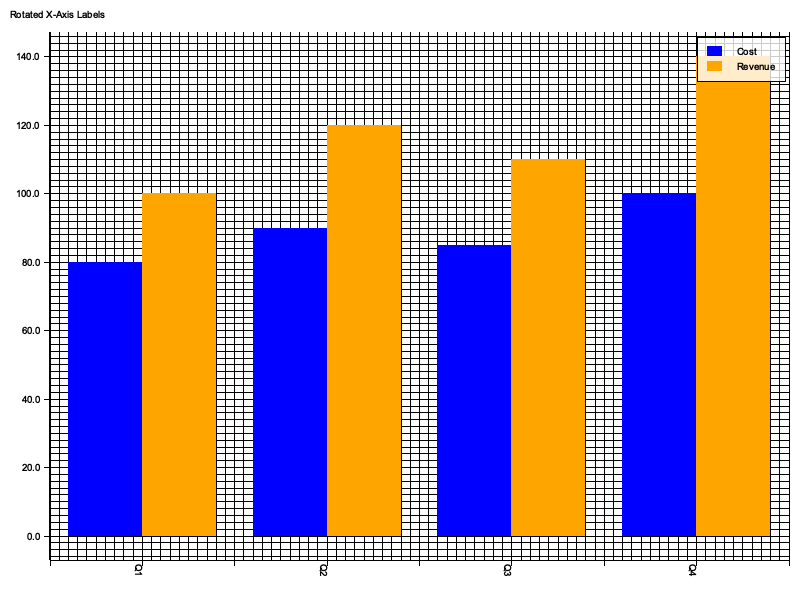
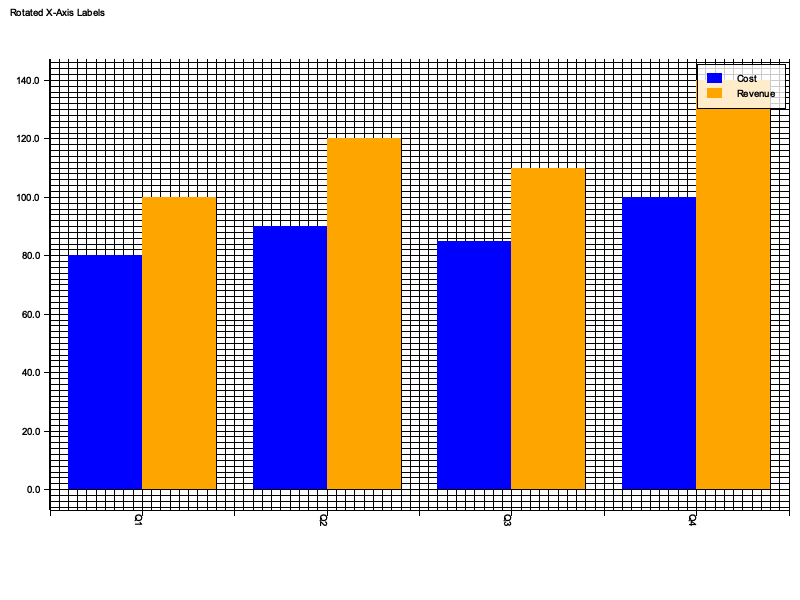
fix legend, subtitle/caption rendering, and axis label clipping

Changed region(s): [[0.0, 0.06, 1.0, 0.96], [0.9688, 0.57, 1.0, 0.69], [0.0, 0.0, 0.125, 0.03]]

diff --git a/src/graph.rs b/src/graph.rs
@@ -152,6 +152,68 @@ impl Canvas {
         // Fill background with resolved theme color
         root.fill(&resolved_theme.plot_background.fill).context("Failed to fill background")?;
 
+        // Calculate header height for title + subtitle
+        let title_size = resolved_theme.plot_title.size;
+        let has_title = scene.labels.title.is_some();
+        let has_subtitle = scene.labels.subtitle.is_some();
+        let has_caption = scene.labels.caption.is_some();
+
+        let header_height: u32 = if has_title || has_subtitle {
+            let mut h = 5u32; // top padding
+            if has_title {
+                h += title_size as u32 + 5;
+            }
+            if has_subtitle {
+                h += (title_size * 0.7) as u32 + 5;
+            }
+            h + 5 // bottom padding
+        } else {
+            0
+        };
+
+        let caption_height: u32 = if has_caption { 30 } else { 0 };
+
+        // Split root into header, main, footer
+        let total_height = scene.height;
+        let main_height = total_height.saturating_sub(header_height).saturating_sub(caption_height);
+
+        let (header_area, rest) = root.split_vertically(header_height);
+        let (main_area, footer_area) = rest.split_vertically(main_height);
+
+        // Draw title and subtitle in header area
+        if has_title || has_subtitle {
+            let mut y_offset = 8i32;
+
+            if let Some(title) = &scene.labels.title {
+                let title_style = TextStyle::from((
+                    resolved_theme.plot_title.family.as_str(),
+                    resolved_theme.plot_title.size as i32
+                ).into_font()).color(&resolved_theme.plot_title.color);
+                header_area.draw_text(title, &title_style, (10, y_offset))?;
+                y_offset += title_size as i32 + 4;
+            }
+
+            if let Some(subtitle) = &scene.labels.subtitle {
+                let subtitle_size = (title_size * 0.7).max(10.0);
+                let subtitle_style = TextStyle::from((
+                    resolved_theme.plot_title.family.as_str(),
+                    subtitle_size as i32
+                ).into_font()).color(&resolved_theme.axis_text.color);
+                header_area.draw_text(subtitle, &subtitle_style, (10, y_offset))?;
+            }
+        }
+
+        // Draw caption in footer area (right-aligned, muted)
+        if let Some(caption) = &scene.labels.caption {
+            let caption_style = TextStyle::from((
+                "sans-serif",
+                11i32
+            ).into_font()).color(&resolved_theme.axis_text.color)
+                .pos(Pos::new(HPos::Right, VPos::Center));
+            let (w, _h) = footer_area.dim_in_pixel();
+            footer_area.draw_text(caption, &caption_style, ((w as i32) - 15, 10))?;
+        }
+
         // Determine Grid Layout
         let max_row = scene.panels.iter().map(|p| p.row).max().unwrap_or(0);
         let max_col = scene.panels.iter().map(|p| p.col).max().unwrap_or(0);
@@ -159,16 +221,7 @@ impl Canvas {
         let rows = max_row + 1;
         let cols = max_col + 1;
 
-        let areas = root.split_evenly((rows, cols));
-
-        // Draw Global Title using resolved theme
-        if let Some(title) = &scene.labels.title {
-            let title_style = TextStyle::from((
-                resolved_theme.plot_title.family.as_str(),
-                resolved_theme.plot_title.size as i32
-            ).into_font()).color(&resolved_theme.plot_title.color);
-            root.draw_text(title, &title_style, (10, 10))?;
-        }
+        let areas = main_area.split_evenly((rows, cols));
 
         for panel in &scene.panels {
             let area_idx = panel.row * cols + panel.col;
@@ -192,12 +245,26 @@ impl Canvas {
         let x_range = panel.x_scale.range.0..panel.x_scale.range.1;
         let y_range = panel.y_scale.range.0..panel.y_scale.range.1;
 
+        // Dynamically calculate x label area size based on axis text angle
+        let x_label_area_size = if theme.has_customization {
+            let angle = theme.axis_text.angle;
+            let normalized = ((angle % 360.0) + 360.0) % 360.0;
+            if (45.0..135.0).contains(&normalized) || (225.0..315.0).contains(&normalized) {
+                // Rotated: need more vertical space for labels
+                (theme.axis_text.size * 6.0).max(80.0) as u32
+            } else {
+                30
+            }
+        } else {
+            30
+        };
+
         let mut chart_builder = ChartBuilder::on(area);
 
         chart_builder
             .margin(10)
             .caption(panel.title.clone().unwrap_or_default(), ("sans-serif", 15))
-            .x_label_area_size(30)
+            .x_label_area_size(x_label_area_size)
             .y_label_area_size(40);
 
         let mut chart = chart_builder
@@ -397,12 +464,20 @@ impl Canvas {
             }
         }
         
-        // Draw Legend if any items (respecting theme legend_position)
-        // Note: Plotters draws legend only if series were labeled
+        // Draw Legend only if there are actually labeled series
         use crate::parser::ast::LegendPosition;
         use plotters::chart::SeriesLabelPosition;
 
-        if theme.legend_position != LegendPosition::None {
+        let has_legend_entries = panel.commands.iter().any(|cmd| {
+            match cmd {
+                DrawCommand::DrawLine { legend, .. } => legend.is_some(),
+                DrawCommand::DrawPoint { legend, .. } => legend.is_some(),
+                DrawCommand::DrawRect { legend, .. } => legend.is_some(),
+                DrawCommand::DrawPolygon { legend, .. } => legend.is_some(),
+            }
+        });
+
+        if has_legend_entries && theme.legend_position != LegendPosition::None {
             let position = match theme.legend_position {
                 LegendPosition::UpperLeft => SeriesLabelPosition::UpperLeft,
                 LegendPosition::UpperMiddle => SeriesLabelPosition::UpperMiddle,
@@ -418,8 +493,9 @@ impl Canvas {
 
             chart.configure_series_labels()
                 .position(position)
-                .background_style(&WHITE.mix(0.8))
-                .border_style(&BLACK)
+                .background_style(theme.panel_background.fill.mix(0.8))
+                .border_style(&theme.axis_text.color)
+                .label_font(("sans-serif", 12).into_font().color(&theme.axis_text.color))
                 .draw()
                 .context("Failed to draw legend")?;
         }

diff --git a/src/compiler.rs b/src/compiler.rs
@@ -4,7 +4,7 @@ use crate::parser::ast::{Layer, BarPosition};
 use crate::graph::{LineStyle, PointStyle, BarStyle, BoxplotStyle, RibbonStyle};
 use crate::RenderOptions;
 
-use std::collections::HashMap;
+use std::collections::{HashMap, HashSet};
 
 // =============================================================================
 // Boxplot Geometry Helpers
@@ -137,12 +137,20 @@ pub fn compile_geometry(
     // Iterate panels (zipped with scales)
     for (panel_data, panel_scales) in data.panels.into_iter().zip(scales.panels.into_iter()) {
         let mut commands = Vec::new();
+        let mut emitted_legend_keys: HashSet<String> = HashSet::new();
 
         // Iterate layers
         for (layer_idx, layer_data) in panel_data.layers.into_iter().enumerate() {
             // Retrieve original layer spec for metadata (position, etc.)
             let layer_spec = &spec.layers[layer_idx];
-            
+
+            // Determine if this layer has a meaningful grouping aesthetic
+            let layer_aes = &spec.layers[layer_idx].aesthetics;
+            let has_grouping = layer_aes.color.is_some()
+                || layer_aes.size.is_some()
+                || layer_aes.shape.is_some()
+                || layer_aes.alpha.is_some();
+
             // Handle Positioning Logic
             let (_is_bar, position) = match &layer_spec.original_layer {
                 Layer::Bar(b) => (true, b.position.clone()),
@@ -180,7 +188,11 @@ pub fn compile_geometry(
                         commands.push(DrawCommand::DrawLine {
                             points,
                             style: style.clone(),
-                            legend: Some(group.key.clone()),
+                            legend: if has_grouping && emitted_legend_keys.insert(group.key.clone()) {
+                                Some(group.key.clone())
+                            } else {
+                                None
+                            },
                         });
                     }
                     RenderStyle::Point(style) => {
@@ -190,7 +202,11 @@ pub fn compile_geometry(
                         commands.push(DrawCommand::DrawPoint {
                             points,
                             style: style.clone(),
-                            legend: Some(group.key.clone()),
+                            legend: if has_grouping && emitted_legend_keys.insert(group.key.clone()) {
+                                Some(group.key.clone())
+                            } else {
+                                None
+                            },
                         });
                     }
                     RenderStyle::Bar(style) => {
@@ -236,7 +252,11 @@ pub fn compile_geometry(
                                 tl,
                                 br,
                                 style: style.clone(),
-                                legend: if i == 0 { Some(group.key.clone()) } else { None },
+                                legend: if i == 0 && has_grouping && emitted_legend_keys.insert(group.key.clone()) {
+                                    Some(group.key.clone())
+                                } else {
+                                    None
+                                },
                             });
                         }
                     }
@@ -313,7 +333,11 @@ pub fn compile_geometry(
                                 tl: geom.box_tl,
                                 br: geom.box_br,
                                 style: box_style.clone(),
-                                legend: if i == 0 { Some(group.key.clone()) } else { None },
+                                legend: if i == 0 && has_grouping && emitted_legend_keys.insert(group.key.clone()) {
+                                    Some(group.key.clone())
+                                } else {
+                                    None
+                                },
                             });
 
                             // 4. Median line (white for contrast)
@@ -354,7 +378,11 @@ pub fn compile_geometry(
                         commands.push(DrawCommand::DrawPolygon {
                             points,
                             style: style.clone(),
-                            legend: Some(group.key.clone()),
+                            legend: if has_grouping && emitted_legend_keys.insert(group.key.clone()) {
+                                Some(group.key.clone())
+                            } else {
+                                None
+                            },
                         });
                     }
                     RenderStyle::Violin(style) => {
@@ -476,7 +504,11 @@ pub fn compile_geometry(
                                     color: style.color.clone(),
                                     alpha: style.alpha.or(Some(0.7)),
                                 },
-                                legend: if i == 0 { Some(group.key.clone()) } else { None },
+                                legend: if i == 0 && has_grouping && emitted_legend_keys.insert(group.key.clone()) {
+                                    Some(group.key.clone())
+                                } else {
+                                    None
+                                },
                             });
 
                             // Draw quantile lines (if any)
